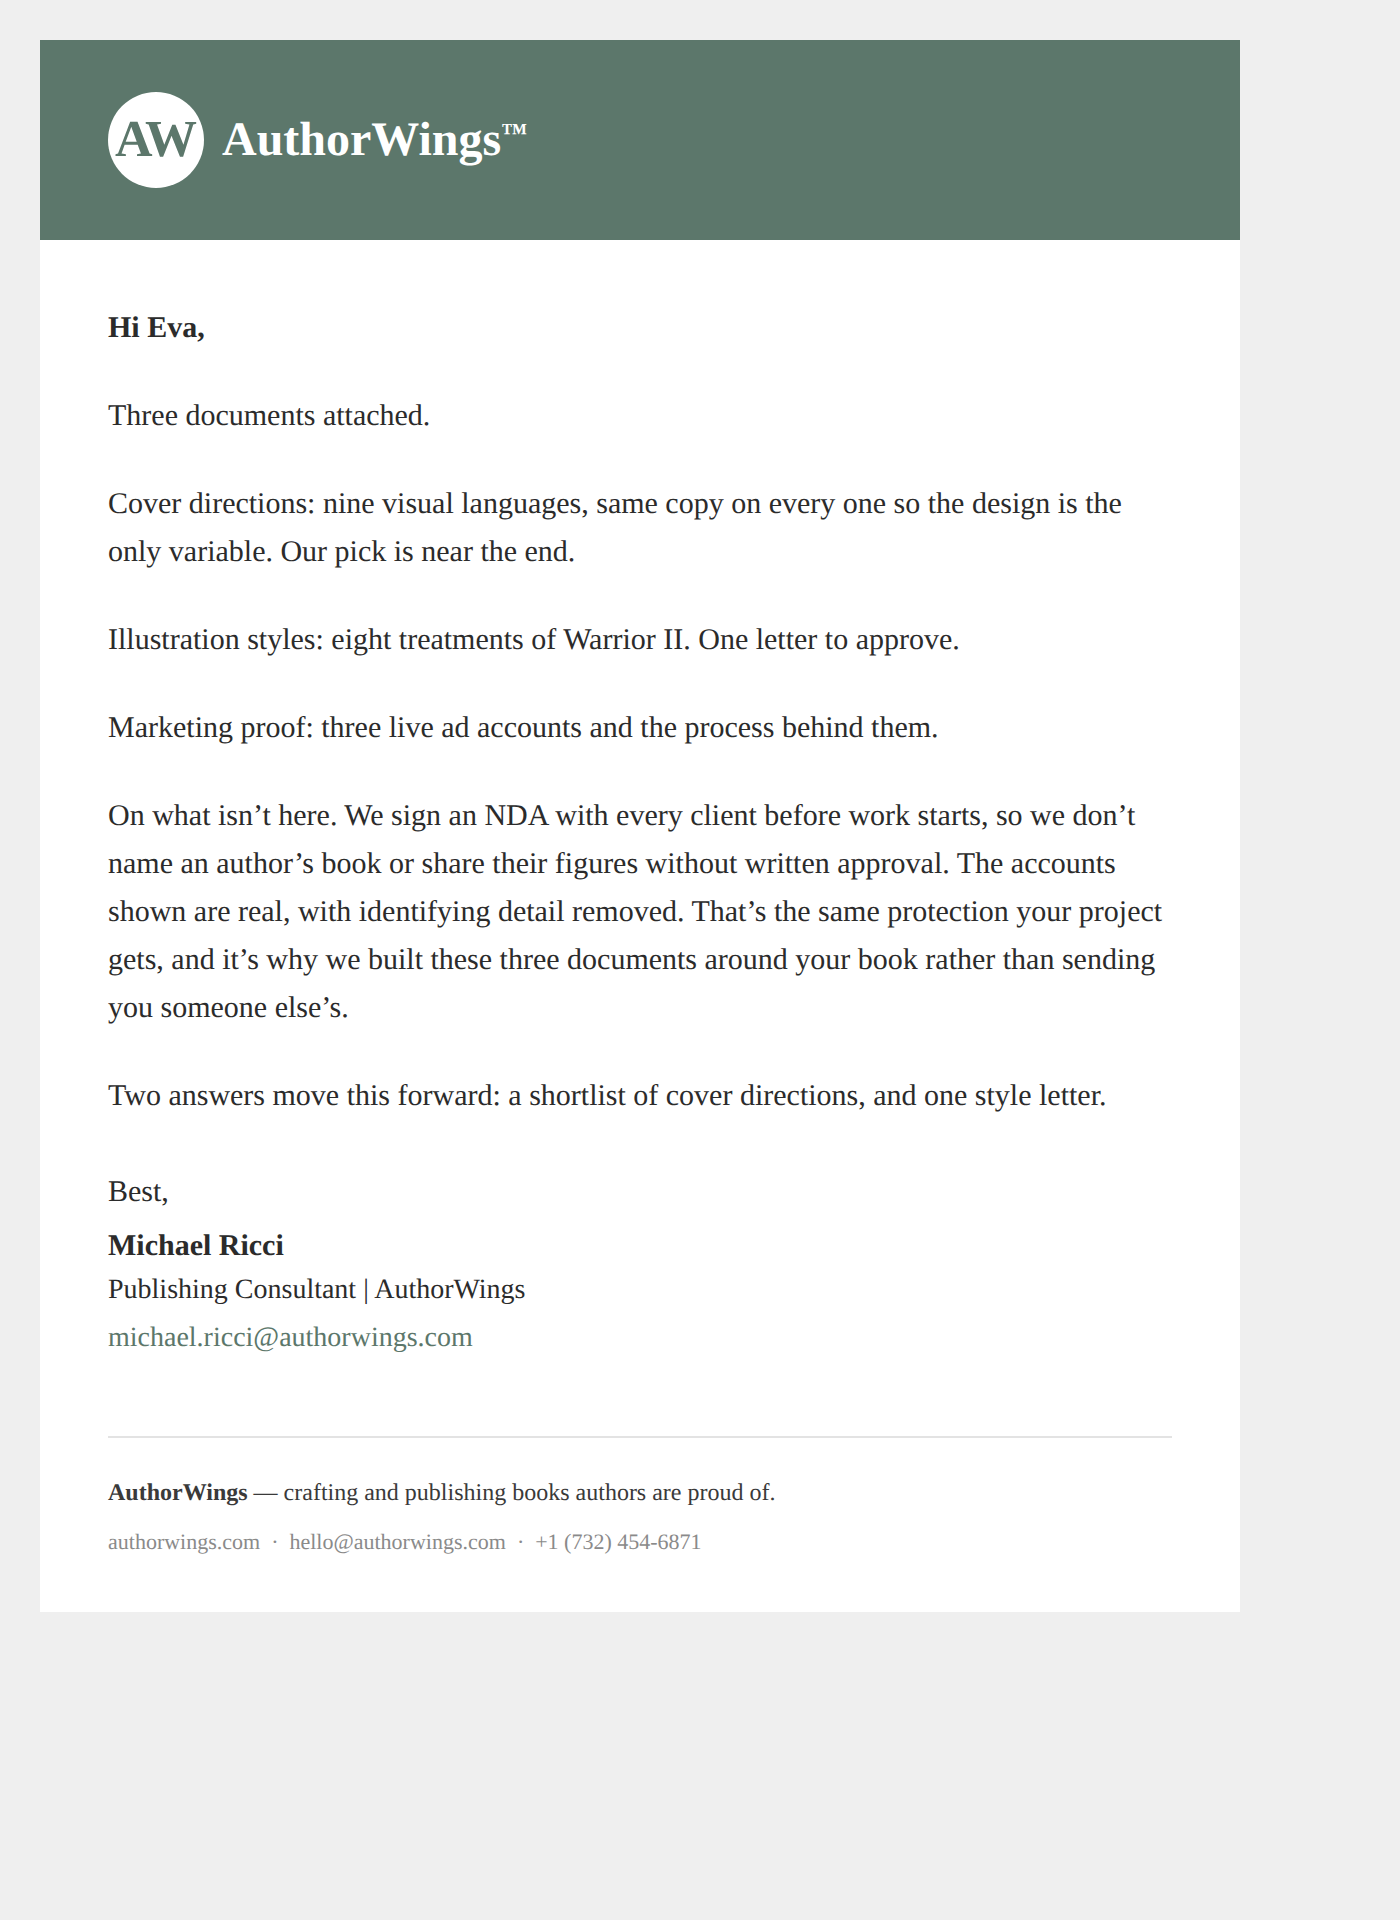
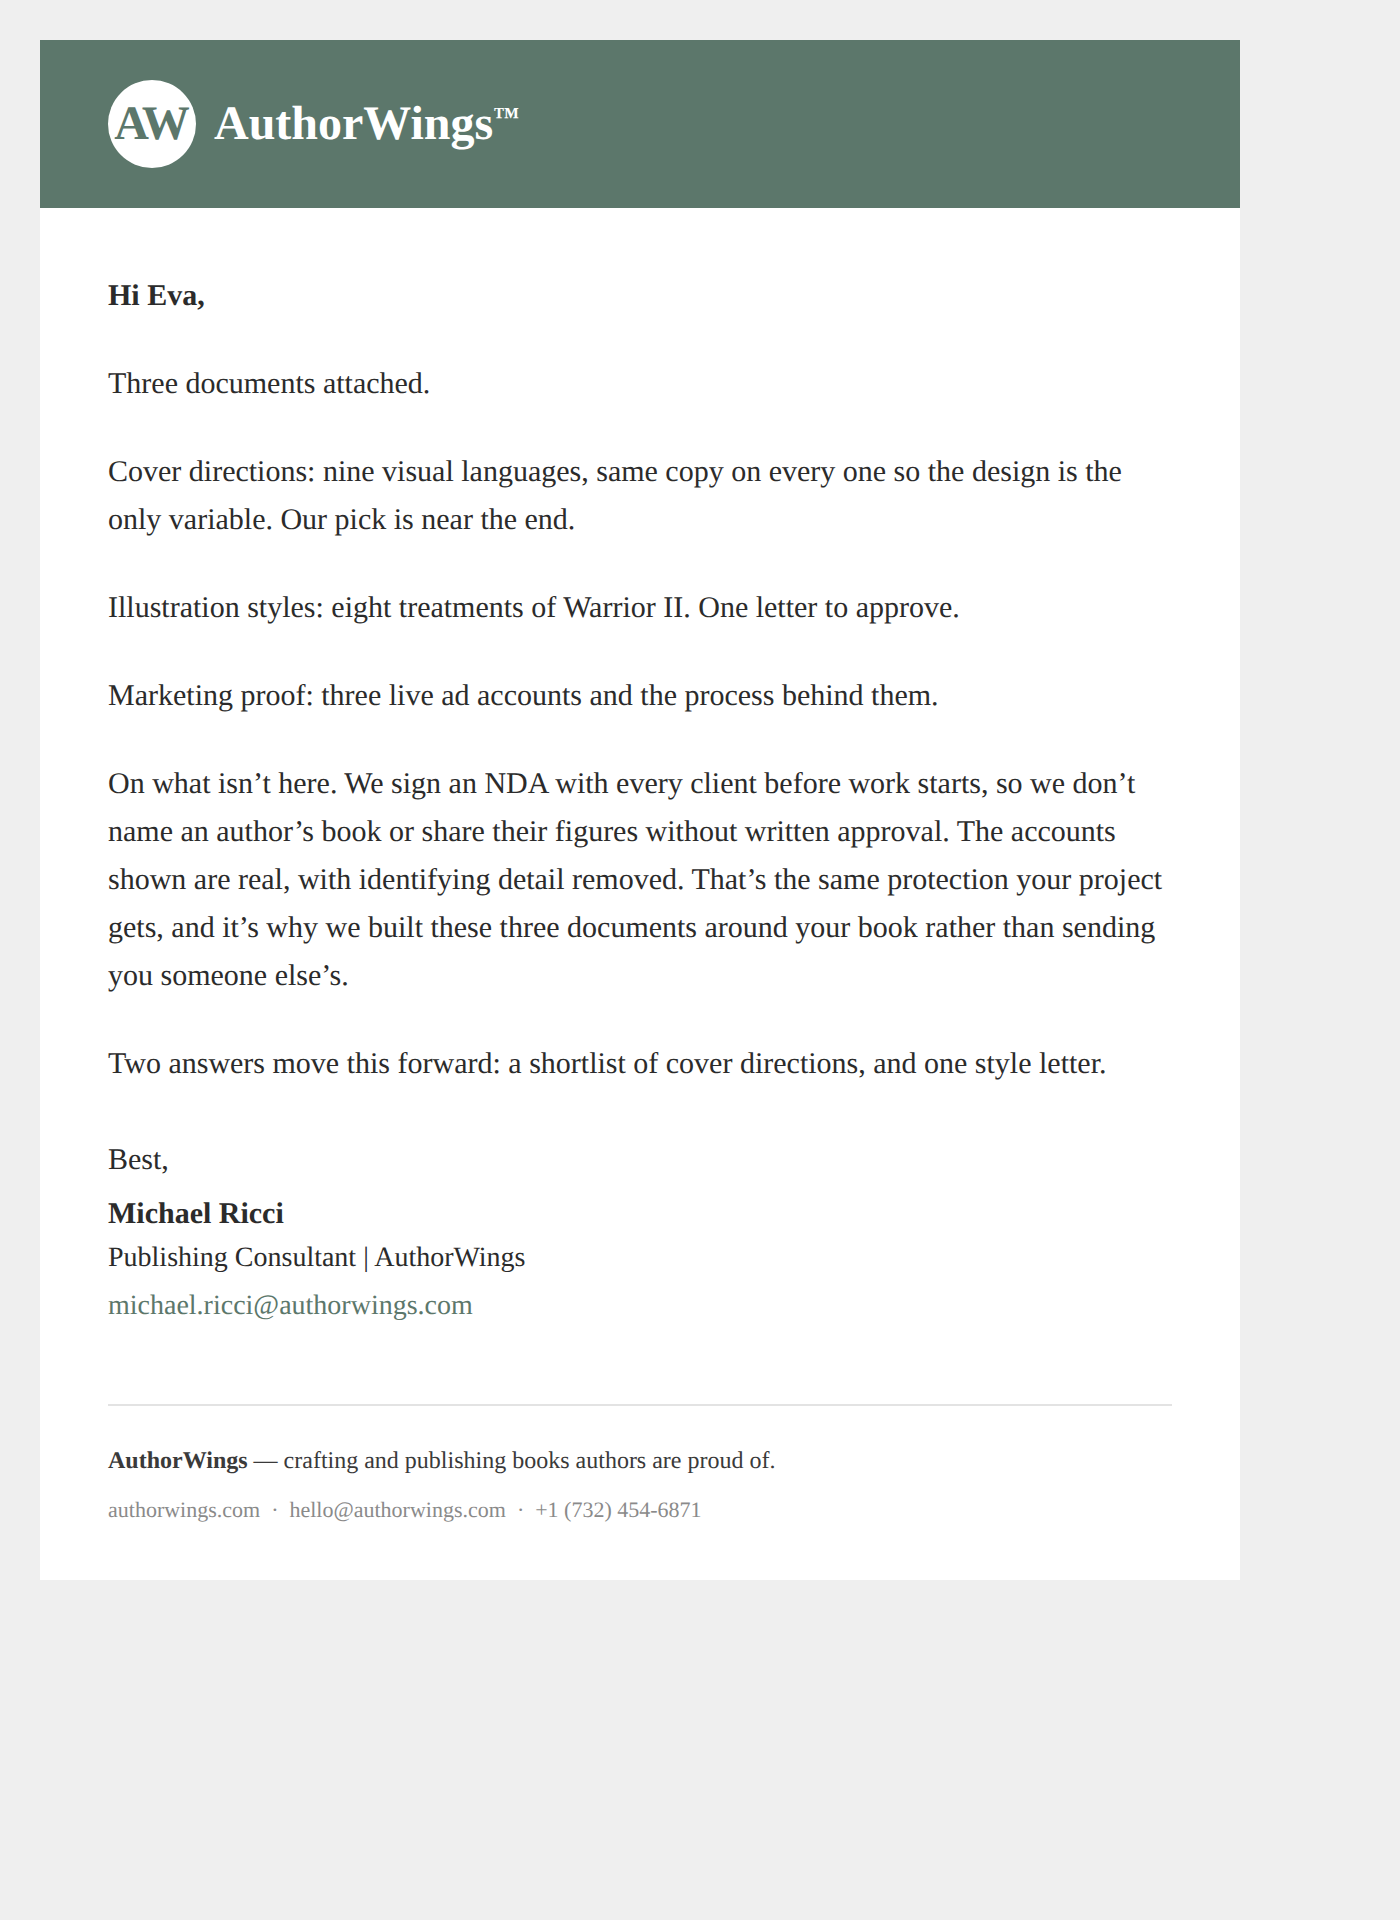
Tighten the header to option C
Bar padding 26px to 20px and the disc 48px to 44px with the monogram at
24px, bringing the bar from 100px to 84px. Applied to the header, full
template and inline versions, with the header PNG re-cut at 1200x168 and
the image template's height attribute following it.

Changed region(s): [[0.0307, 0.0312, 0.8907, 0.7188], [0.0614, 0.75, 0.5529, 0.8125]]

diff --git a/email/authorwings-email-header.html b/email/authorwings-email-header.html
@@ -54,7 +54,7 @@
         <!-- ============================================================
              AUTHORWINGS EMAIL HEADER
              Bar #5C776B - Disc #FFFFFF - "AW" #5C776B - Wordmark #FFFFFF
-             Monogram: Zilla Slab 700, 26px, tracking -1px, filling the 48px disc
+             Monogram: Zilla Slab 700, 24px, tracking -1px, in the 44px disc
              Wordmark: PT Serif 700, 24px, set solid, no tracking
              Trademark: 13px, raised 7px so its top meets the cap height
              Both faces are embedded above; Rockwell / PT Serif / Georgia
@@ -62,17 +62,17 @@
              ============================================================ -->
         <tr>
           <td class="aw-head-pad" align="left" bgcolor="#5C776B"
-              style="background-color:#5C776B; padding:26px 34px;">
+              style="background-color:#5C776B; padding:20px 34px;">
 
             <table role="presentation" cellpadding="0" cellspacing="0" border="0" style="border-collapse:collapse;">
               <tr>
                 <!-- "AW" monogram on the white disc -->
-                <td class="aw-mark" align="center" valign="middle" width="48" height="48" bgcolor="#FFFFFF"
-                    style="width:48px; height:48px; background-color:#FFFFFF;
-                           border-radius:24px; -webkit-border-radius:24px; -moz-border-radius:24px;
+                <td class="aw-mark" align="center" valign="middle" width="44" height="44" bgcolor="#FFFFFF"
+                    style="width:44px; height:44px; background-color:#FFFFFF;
+                           border-radius:22px; -webkit-border-radius:22px; -moz-border-radius:22px;
                            text-align:center; vertical-align:middle;
                            font-family:'AW Slab', 'Zilla Slab', Rockwell, Georgia, serif;
-                           font-size:26px; font-weight:700; line-height:48px;
+                           font-size:24px; font-weight:700; line-height:44px;
                            color:#5C776B; letter-spacing:-1px; text-indent:-1px;
                            mso-line-height-rule:exactly;">
                   AW

diff --git a/email/authorwings-email-template.html b/email/authorwings-email-template.html
@@ -62,7 +62,7 @@
         <!-- ============================================================
              AUTHORWINGS EMAIL HEADER
              Bar #5C776B - Disc #FFFFFF - "AW" #5C776B - Wordmark #FFFFFF
-             Monogram: Zilla Slab 700, 26px, tracking -1px, filling the 48px disc
+             Monogram: Zilla Slab 700, 24px, tracking -1px, in the 44px disc
              Wordmark: PT Serif 700, 24px, set solid, no tracking
              Trademark: 13px, raised 7px so its top meets the cap height
              Both faces are embedded above; Rockwell / PT Serif / Georgia
@@ -70,17 +70,17 @@
              ============================================================ -->
         <tr>
           <td class="aw-head-pad" align="left" bgcolor="#5C776B"
-              style="background-color:#5C776B; padding:26px 34px;">
+              style="background-color:#5C776B; padding:20px 34px;">
 
             <table role="presentation" cellpadding="0" cellspacing="0" border="0" style="border-collapse:collapse;">
               <tr>
                 <!-- "AW" monogram on the white disc -->
-                <td class="aw-mark" align="center" valign="middle" width="48" height="48" bgcolor="#FFFFFF"
-                    style="width:48px; height:48px; background-color:#FFFFFF;
-                           border-radius:24px; -webkit-border-radius:24px; -moz-border-radius:24px;
+                <td class="aw-mark" align="center" valign="middle" width="44" height="44" bgcolor="#FFFFFF"
+                    style="width:44px; height:44px; background-color:#FFFFFF;
+                           border-radius:22px; -webkit-border-radius:22px; -moz-border-radius:22px;
                            text-align:center; vertical-align:middle;
                            font-family:'AW Slab', 'Zilla Slab', Rockwell, Georgia, serif;
-                           font-size:26px; font-weight:700; line-height:48px;
+                           font-size:24px; font-weight:700; line-height:44px;
                            color:#5C776B; letter-spacing:-1px; text-indent:-1px;
                            mso-line-height-rule:exactly;">
                   AW

diff --git a/email/authorwings-email-inline.html b/email/authorwings-email-inline.html
@@ -2,15 +2,15 @@
 
   <!-- ===================== HEADER ===================== -->
   <tr>
-    <td align="left" bgcolor="#5C776B" style="background-color:#5C776B; padding:26px 34px;">
+    <td align="left" bgcolor="#5C776B" style="background-color:#5C776B; padding:20px 34px;">
       <table role="presentation" cellpadding="0" cellspacing="0" border="0" style="border-collapse:collapse;">
         <tr>
-          <td align="center" valign="middle" width="48" height="48" bgcolor="#FFFFFF"
-              style="width:48px; height:48px; background-color:#FFFFFF;
-                     border-radius:24px; -webkit-border-radius:24px; -moz-border-radius:24px;
+          <td align="center" valign="middle" width="44" height="44" bgcolor="#FFFFFF"
+              style="width:44px; height:44px; background-color:#FFFFFF;
+                     border-radius:22px; -webkit-border-radius:22px; -moz-border-radius:22px;
                      text-align:center; vertical-align:middle;
                      font-family:'Zilla Slab', Rockwell, Georgia, serif;
-                     font-size:26px; font-weight:700; line-height:48px;
+                     font-size:24px; font-weight:700; line-height:44px;
                      color:#5C776B; letter-spacing:-1px; text-indent:-1px;
                      mso-line-height-rule:exactly;">AW</td>
           <td width="9" style="width:9px; min-width:9px; font-size:1px; line-height:1px;">&#8203;</td>

diff --git a/email/authorwings-email-template-image-logo.html b/email/authorwings-email-template-image-logo.html
@@ -54,7 +54,7 @@
 
         <!-- ============================================================
              HEADER - image version.
-             Upload authorwings-header.png (1200x200) to your site and put
+             Upload authorwings-header.png (1200x168) to your site and put
              its full https:// address in src below. It must be a public
              URL: an email cannot carry an image from your hard drive.
              The green bgcolor stays so the bar still reads when a client
@@ -63,7 +63,7 @@
         <tr>
           <td align="left" bgcolor="#5C776B" style="background-color:#5C776B; font-size:0; line-height:0;">
             <img src="https://authorwings.com/wp-content/uploads/authorwings-header.png"
-                 width="600" height="100" alt="AuthorWings"
+                 width="600" height="84" alt="AuthorWings"
                  style="display:block; width:600px; max-width:100%; height:auto; border:0; outline:none; text-decoration:none;" />
           </td>
         </tr>
